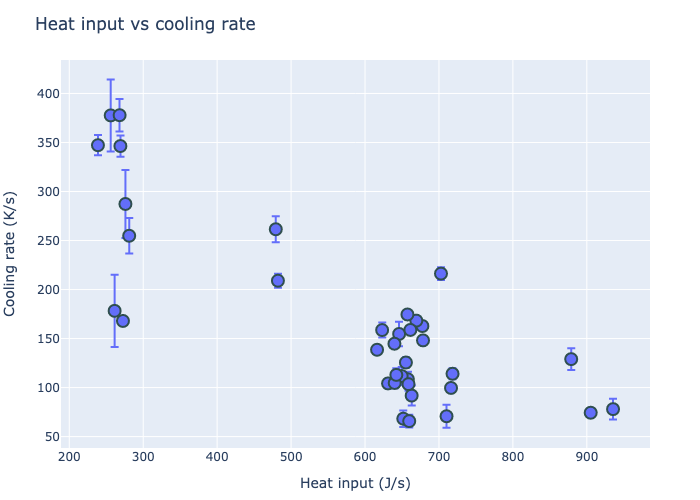
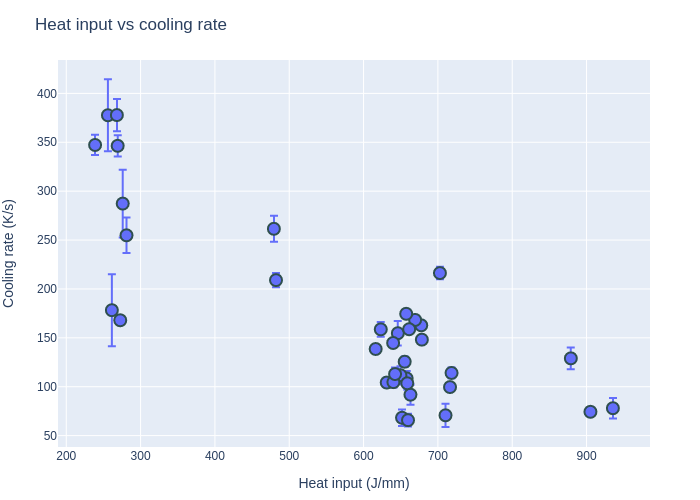
idk

diff --git a/myplt.html b/myplt.html
@@ -9,7 +9,7 @@ window.PlotlyConfig = {MathJaxConfig: 'local'};
 <script src="https://cdn.plot.ly/plotly-2.3.0.min.js"></script>
 
     <div
-        id=74a2cfe2-af52-403d-882d-81b6d308ff6d
+        id=4a8c4cb5-8f70-481b-8841-f9f87d6d571a
         class="plotly-graph-div"
         style="height:100%; width:100%;">
     </div>
@@ -17,11 +17,11 @@ window.PlotlyConfig = {MathJaxConfig: 'local'};
         
         window.PLOTLYENV = window.PLOTLYENV || {}
         
-        if (document.getElementById('74a2cfe2-af52-403d-882d-81b6d308ff6d')) {
+        if (document.getElementById('4a8c4cb5-8f70-481b-8841-f9f87d6d571a')) {
     Plotly.newPlot(
-        '74a2cfe2-af52-403d-882d-81b6d308ff6d',
+        '4a8c4cb5-8f70-481b-8841-f9f87d6d571a',
         [{"x":[272.61484425041914,623.1556639568136,616.297536437391,678.439610387996,677.6194703710901,657.9691329500673,655.3170406085087,669.3963411513746,663.0761235570861,651.7655238465242,649.5880621007259,646.1246999335307,659.7991578482029,631.1627156052439,661.3310025562482,658.7953615727218,639.771743773861,640.1630349988593,642.3794207929258,657.3762348204903,238.79244265446616,256.0373998341273,905.2333767391783,878.869965178166,702.742773539284,718.3895984362925,710.256998648712,716.3241111795019,935.4576513856715,281.05511393556094,275.95346571463676,479.32388960198296,482.196727682091,268.0955288108251,269.1577118158783,261.3585721903865],"mode":"markers","xaxis":"x","y":[167.96182,158.67236,138.57892,148.13419,162.78822,108.48489,125.58166,168.30495,91.84478,68.26494,111.77816,154.71657,65.80781,104.24214,158.79971,103.512,144.7381,104.679016,112.94357,174.56943,347.24677,377.62674,74.34163,129.01865,216.24123,114.094635,70.754456,99.634544,78.02036,254.8511,287.29648,261.49722,209.01065,377.83066,346.37286,178.26389],"type":"scatter","error_y":{"type":"data","visible":true,"array":[4.27788,7.62142,2.5291739,2.1810868,4.5554113,7.6795936,5.407683,4.5835032,10.23771,8.470408,9.218521,12.49388,6.41894,4.854581,3.414797,6.6832156,3.7966435,5.474925,6.828172,4.4653797,10.368562,36.73312,4.5959063,11.121534,6.391874,5.5404587,11.838372,2.0293267,10.545884,18.180841,34.61003,13.238057,7.171863,16.51889,10.85743,36.86045]},"text":["Plate 70819 region 1","Plate110819 region 1","Plate110819 region 2","Plate120819 region 1","Plate120819 region 2","Plate130829 region 1","Plate130829 region 2","Plate140829 region 1","Plate140829 region 2","Plate150831 region 1","Plate150831 region 2","Plate160831 region 1","Plate17p1 region 1","Plate17p2 region 1","Plate180831 region 1","Plate180831 region 2","Plate19 region 1","Plate19Bead2 region 1","Plate200922 region 1","Plate200922 region 2","Plate20601 region 1","Plate20601 region 2","Plate210922 region 1","Plate210922 region 2","Plate22Oct21 region 1","Plate23Oct25 region 1","Plate23Oct25 region 2","Plate24 region 1","Plate25 region 1","Plate30601 region 1","Plate30601 region 2","Plate40601 region 1","Plate40601 region 2","Plate50601 region 1","Plate50601 region 2","Plate6SecondBead region 1"],"yaxis":"y","marker":{"line":{"color":"DarkSlateGrey","width":2},"size":12}}],
-        {"xaxis":{"title":{"text":"Heat input (J/s)"}},"template":{"layout":{"coloraxis":{"colorbar":{"ticks":"","outlinewidth":0}},"xaxis":{"gridcolor":"white","zerolinewidth":2,"title":{"standoff":15},"ticks":"","zerolinecolor":"white","automargin":true,"linecolor":"white"},"hovermode":"closest","paper_bgcolor":"white","geo":{"showlakes":true,"showland":true,"landcolor":"#E5ECF6","bgcolor":"white","subunitcolor":"white","lakecolor":"white"},"colorscale":{"sequential":[[0.0,"#0d0887"],[0.1111111111111111,"#46039f"],[0.2222222222222222,"#7201a8"],[0.3333333333333333,"#9c179e"],[0.4444444444444444,"#bd3786"],[0.5555555555555556,"#d8576b"],[0.6666666666666666,"#ed7953"],[0.7777777777777778,"#fb9f3a"],[0.8888888888888888,"#fdca26"],[1.0,"#f0f921"]],"diverging":[[0,"#8e0152"],[0.1,"#c51b7d"],[0.2,"#de77ae"],[0.3,"#f1b6da"],[0.4,"#fde0ef"],[0.5,"#f7f7f7"],[0.6,"#e6f5d0"],[0.7,"#b8e186"],[0.8,"#7fbc41"],[0.9,"#4d9221"],[1,"#276419"]],"sequentialminus":[[0.0,"#0d0887"],[0.1111111111111111,"#46039f"],[0.2222222222222222,"#7201a8"],[0.3333333333333333,"#9c179e"],[0.4444444444444444,"#bd3786"],[0.5555555555555556,"#d8576b"],[0.6666666666666666,"#ed7953"],[0.7777777777777778,"#fb9f3a"],[0.8888888888888888,"#fdca26"],[1.0,"#f0f921"]]},"yaxis":{"gridcolor":"white","zerolinewidth":2,"title":{"standoff":15},"ticks":"","zerolinecolor":"white","automargin":true,"linecolor":"white"},"shapedefaults":{"line":{"color":"#2a3f5f"}},"hoverlabel":{"align":"left"},"mapbox":{"style":"light"},"polar":{"angularaxis":{"gridcolor":"white","ticks":"","linecolor":"white"},"bgcolor":"#E5ECF6","radialaxis":{"gridcolor":"white","ticks":"","linecolor":"white"}},"autotypenumbers":"strict","font":{"color":"#2a3f5f"},"ternary":{"baxis":{"gridcolor":"white","ticks":"","linecolor":"white"},"bgcolor":"#E5ECF6","caxis":{"gridcolor":"white","ticks":"","linecolor":"white"},"aaxis":{"gridcolor":"white","ticks":"","linecolor":"white"}},"annotationdefaults":{"arrowhead":0,"arrowwidth":1,"arrowcolor":"#2a3f5f"},"plot_bgcolor":"#E5ECF6","title":{"x":0.05},"scene":{"xaxis":{"gridcolor":"white","gridwidth":2,"backgroundcolor":"#E5ECF6","ticks":"","showbackground":true,"zerolinecolor":"white","linecolor":"white"},"zaxis":{"gridcolor":"white","gridwidth":2,"backgroundcolor":"#E5ECF6","ticks":"","showbackground":true,"zerolinecolor":"white","linecolor":"white"},"yaxis":{"gridcolor":"white","gridwidth":2,"backgroundcolor":"#E5ECF6","ticks":"","showbackground":true,"zerolinecolor":"white","linecolor":"white"}},"colorway":["#636efa","#EF553B","#00cc96","#ab63fa","#FFA15A","#19d3f3","#FF6692","#B6E880","#FF97FF","#FECB52"]},"data":{"barpolar":[{"type":"barpolar","marker":{"line":{"color":"#E5ECF6","width":0.5}}}],"carpet":[{"aaxis":{"gridcolor":"white","endlinecolor":"#2a3f5f","minorgridcolor":"white","startlinecolor":"#2a3f5f","linecolor":"white"},"type":"carpet","baxis":{"gridcolor":"white","endlinecolor":"#2a3f5f","minorgridcolor":"white","startlinecolor":"#2a3f5f","linecolor":"white"}}],"scatterpolar":[{"type":"scatterpolar","marker":{"colorbar":{"ticks":"","outlinewidth":0}}}],"parcoords":[{"line":{"colorbar":{"ticks":"","outlinewidth":0}},"type":"parcoords"}],"scatter":[{"type":"scatter","marker":{"colorbar":{"ticks":"","outlinewidth":0}}}],"histogram2dcontour":[{"colorbar":{"ticks":"","outlinewidth":0},"type":"histogram2dcontour","colorscale":[[0.0,"#0d0887"],[0.1111111111111111,"#46039f"],[0.2222222222222222,"#7201a8"],[0.3333333333333333,"#9c179e"],[0.4444444444444444,"#bd3786"],[0.5555555555555556,"#d8576b"],[0.6666666666666666,"#ed7953"],[0.7777777777777778,"#fb9f3a"],[0.8888888888888888,"#fdca26"],[1.0,"#f0f921"]]}],"contour":[{"colorbar":{"ticks":"","outlinewidth":0},"type":"contour","colorscale":[[0.0,"#0d0887"],[0.1111111111111111,"#46039f"],[0.2222222222222222,"#7201a8"],[0.3333333333333333,"#9c179e"],[0.4444444444444444,"#bd3786"],[0.5555555555555556,"#d8576b"],[0.6666666666666666,"#ed7953"],[0.7777777777777778,"#fb9f3a"],[0.8888888888888888,"#fdca26"],[1.0,"#f0f921"]]}],"scattercarpet":[{"type":"scattercarpet","marker":{"colorbar":{"ticks":"","outlinewidth":0}}}],"mesh3d":[{"colorbar":{"ticks":"","outlinewidth":0},"type":"mesh3d"}],"surface":[{"colorbar":{"ticks":"","outlinewidth":0},"type":"surface","colorscale":[[0.0,"#0d0887"],[0.1111111111111111,"#46039f"],[0.2222222222222222,"#7201a8"],[0.3333333333333333,"#9c179e"],[0.4444444444444444,"#bd3786"],[0.5555555555555556,"#d8576b"],[0.6666666666666666,"#ed7953"],[0.7777777777777778,"#fb9f3a"],[0.8888888888888888,"#fdca26"],[1.0,"#f0f921"]]}],"scattermapbox":[{"type":"scattermapbox","marker":{"colorbar":{"ticks":"","outlinewidth":0}}}],"scattergeo":[{"type":"scattergeo","marker":{"colorbar":{"ticks":"","outlinewidth":0}}}],"histogram":[{"type":"histogram","marker":{"colorbar":{"ticks":"","outlinewidth":0}}}],"pie":[{"type":"pie","automargin":true}],"choropleth":[{"colorbar":{"ticks":"","outlinewidth":0},"type":"choropleth"}],"heatmapgl":[{"colorbar":{"ticks":"","outlinewidth":0},"type":"heatmapgl","colorscale":[[0.0,"#0d0887"],[0.1111111111111111,"#46039f"],[0.2222222222222222,"#7201a8"],[0.3333333333333333,"#9c179e"],[0.4444444444444444,"#bd3786"],[0.5555555555555556,"#d8576b"],[0.6666666666666666,"#ed7953"],[0.7777777777777778,"#fb9f3a"],[0.8888888888888888,"#fdca26"],[1.0,"#f0f921"]]}],"bar":[{"type":"bar","error_y":{"color":"#2a3f5f"},"error_x":{"color":"#2a3f5f"},"marker":{"line":{"color":"#E5ECF6","width":0.5}}}],"heatmap":[{"colorbar":{"ticks":"","outlinewidth":0},"type":"heatmap","colorscale":[[0.0,"#0d0887"],[0.1111111111111111,"#46039f"],[0.2222222222222222,"#7201a8"],[0.3333333333333333,"#9c179e"],[0.4444444444444444,"#bd3786"],[0.5555555555555556,"#d8576b"],[0.6666666666666666,"#ed7953"],[0.7777777777777778,"#fb9f3a"],[0.8888888888888888,"#fdca26"],[1.0,"#f0f921"]]}],"contourcarpet":[{"colorbar":{"ticks":"","outlinewidth":0},"type":"contourcarpet"}],"table":[{"type":"table","header":{"line":{"color":"white"},"fill":{"color":"#C8D4E3"}},"cells":{"line":{"color":"white"},"fill":{"color":"#EBF0F8"}}}],"scatter3d":[{"line":{"colorbar":{"ticks":"","outlinewidth":0}},"type":"scatter3d","marker":{"colorbar":{"ticks":"","outlinewidth":0}}}],"scattergl":[{"type":"scattergl","marker":{"colorbar":{"ticks":"","outlinewidth":0}}}],"histogram2d":[{"colorbar":{"ticks":"","outlinewidth":0},"type":"histogram2d","colorscale":[[0.0,"#0d0887"],[0.1111111111111111,"#46039f"],[0.2222222222222222,"#7201a8"],[0.3333333333333333,"#9c179e"],[0.4444444444444444,"#bd3786"],[0.5555555555555556,"#d8576b"],[0.6666666666666666,"#ed7953"],[0.7777777777777778,"#fb9f3a"],[0.8888888888888888,"#fdca26"],[1.0,"#f0f921"]]}],"scatterternary":[{"type":"scatterternary","marker":{"colorbar":{"ticks":"","outlinewidth":0}}}],"scatterpolargl":[{"type":"scatterpolargl","marker":{"colorbar":{"ticks":"","outlinewidth":0}}}]}},"hovername":"name","margin":{"l":50,"b":50,"r":50,"t":60},"title":"Heat input vs cooling rate","yaxis":{"title":{"text":"Cooling rate (K/s)"}},"legend":{"tracegroupgap":0}},
+        {"xaxis":{"title":{"text":"Heat input (J/mm)"}},"template":{"layout":{"coloraxis":{"colorbar":{"ticks":"","outlinewidth":0}},"xaxis":{"gridcolor":"white","zerolinewidth":2,"title":{"standoff":15},"ticks":"","zerolinecolor":"white","automargin":true,"linecolor":"white"},"hovermode":"closest","paper_bgcolor":"white","geo":{"showlakes":true,"showland":true,"landcolor":"#E5ECF6","bgcolor":"white","subunitcolor":"white","lakecolor":"white"},"colorscale":{"sequential":[[0.0,"#0d0887"],[0.1111111111111111,"#46039f"],[0.2222222222222222,"#7201a8"],[0.3333333333333333,"#9c179e"],[0.4444444444444444,"#bd3786"],[0.5555555555555556,"#d8576b"],[0.6666666666666666,"#ed7953"],[0.7777777777777778,"#fb9f3a"],[0.8888888888888888,"#fdca26"],[1.0,"#f0f921"]],"diverging":[[0,"#8e0152"],[0.1,"#c51b7d"],[0.2,"#de77ae"],[0.3,"#f1b6da"],[0.4,"#fde0ef"],[0.5,"#f7f7f7"],[0.6,"#e6f5d0"],[0.7,"#b8e186"],[0.8,"#7fbc41"],[0.9,"#4d9221"],[1,"#276419"]],"sequentialminus":[[0.0,"#0d0887"],[0.1111111111111111,"#46039f"],[0.2222222222222222,"#7201a8"],[0.3333333333333333,"#9c179e"],[0.4444444444444444,"#bd3786"],[0.5555555555555556,"#d8576b"],[0.6666666666666666,"#ed7953"],[0.7777777777777778,"#fb9f3a"],[0.8888888888888888,"#fdca26"],[1.0,"#f0f921"]]},"yaxis":{"gridcolor":"white","zerolinewidth":2,"title":{"standoff":15},"ticks":"","zerolinecolor":"white","automargin":true,"linecolor":"white"},"shapedefaults":{"line":{"color":"#2a3f5f"}},"hoverlabel":{"align":"left"},"mapbox":{"style":"light"},"polar":{"angularaxis":{"gridcolor":"white","ticks":"","linecolor":"white"},"bgcolor":"#E5ECF6","radialaxis":{"gridcolor":"white","ticks":"","linecolor":"white"}},"autotypenumbers":"strict","font":{"color":"#2a3f5f"},"ternary":{"baxis":{"gridcolor":"white","ticks":"","linecolor":"white"},"bgcolor":"#E5ECF6","caxis":{"gridcolor":"white","ticks":"","linecolor":"white"},"aaxis":{"gridcolor":"white","ticks":"","linecolor":"white"}},"annotationdefaults":{"arrowhead":0,"arrowwidth":1,"arrowcolor":"#2a3f5f"},"plot_bgcolor":"#E5ECF6","title":{"x":0.05},"scene":{"xaxis":{"gridcolor":"white","gridwidth":2,"backgroundcolor":"#E5ECF6","ticks":"","showbackground":true,"zerolinecolor":"white","linecolor":"white"},"zaxis":{"gridcolor":"white","gridwidth":2,"backgroundcolor":"#E5ECF6","ticks":"","showbackground":true,"zerolinecolor":"white","linecolor":"white"},"yaxis":{"gridcolor":"white","gridwidth":2,"backgroundcolor":"#E5ECF6","ticks":"","showbackground":true,"zerolinecolor":"white","linecolor":"white"}},"colorway":["#636efa","#EF553B","#00cc96","#ab63fa","#FFA15A","#19d3f3","#FF6692","#B6E880","#FF97FF","#FECB52"]},"data":{"barpolar":[{"type":"barpolar","marker":{"line":{"color":"#E5ECF6","width":0.5}}}],"carpet":[{"aaxis":{"gridcolor":"white","endlinecolor":"#2a3f5f","minorgridcolor":"white","startlinecolor":"#2a3f5f","linecolor":"white"},"type":"carpet","baxis":{"gridcolor":"white","endlinecolor":"#2a3f5f","minorgridcolor":"white","startlinecolor":"#2a3f5f","linecolor":"white"}}],"scatterpolar":[{"type":"scatterpolar","marker":{"colorbar":{"ticks":"","outlinewidth":0}}}],"parcoords":[{"line":{"colorbar":{"ticks":"","outlinewidth":0}},"type":"parcoords"}],"scatter":[{"type":"scatter","marker":{"colorbar":{"ticks":"","outlinewidth":0}}}],"histogram2dcontour":[{"colorbar":{"ticks":"","outlinewidth":0},"type":"histogram2dcontour","colorscale":[[0.0,"#0d0887"],[0.1111111111111111,"#46039f"],[0.2222222222222222,"#7201a8"],[0.3333333333333333,"#9c179e"],[0.4444444444444444,"#bd3786"],[0.5555555555555556,"#d8576b"],[0.6666666666666666,"#ed7953"],[0.7777777777777778,"#fb9f3a"],[0.8888888888888888,"#fdca26"],[1.0,"#f0f921"]]}],"contour":[{"colorbar":{"ticks":"","outlinewidth":0},"type":"contour","colorscale":[[0.0,"#0d0887"],[0.1111111111111111,"#46039f"],[0.2222222222222222,"#7201a8"],[0.3333333333333333,"#9c179e"],[0.4444444444444444,"#bd3786"],[0.5555555555555556,"#d8576b"],[0.6666666666666666,"#ed7953"],[0.7777777777777778,"#fb9f3a"],[0.8888888888888888,"#fdca26"],[1.0,"#f0f921"]]}],"scattercarpet":[{"type":"scattercarpet","marker":{"colorbar":{"ticks":"","outlinewidth":0}}}],"mesh3d":[{"colorbar":{"ticks":"","outlinewidth":0},"type":"mesh3d"}],"surface":[{"colorbar":{"ticks":"","outlinewidth":0},"type":"surface","colorscale":[[0.0,"#0d0887"],[0.1111111111111111,"#46039f"],[0.2222222222222222,"#7201a8"],[0.3333333333333333,"#9c179e"],[0.4444444444444444,"#bd3786"],[0.5555555555555556,"#d8576b"],[0.6666666666666666,"#ed7953"],[0.7777777777777778,"#fb9f3a"],[0.8888888888888888,"#fdca26"],[1.0,"#f0f921"]]}],"scattermapbox":[{"type":"scattermapbox","marker":{"colorbar":{"ticks":"","outlinewidth":0}}}],"scattergeo":[{"type":"scattergeo","marker":{"colorbar":{"ticks":"","outlinewidth":0}}}],"histogram":[{"type":"histogram","marker":{"colorbar":{"ticks":"","outlinewidth":0}}}],"pie":[{"type":"pie","automargin":true}],"choropleth":[{"colorbar":{"ticks":"","outlinewidth":0},"type":"choropleth"}],"heatmapgl":[{"colorbar":{"ticks":"","outlinewidth":0},"type":"heatmapgl","colorscale":[[0.0,"#0d0887"],[0.1111111111111111,"#46039f"],[0.2222222222222222,"#7201a8"],[0.3333333333333333,"#9c179e"],[0.4444444444444444,"#bd3786"],[0.5555555555555556,"#d8576b"],[0.6666666666666666,"#ed7953"],[0.7777777777777778,"#fb9f3a"],[0.8888888888888888,"#fdca26"],[1.0,"#f0f921"]]}],"bar":[{"type":"bar","error_y":{"color":"#2a3f5f"},"error_x":{"color":"#2a3f5f"},"marker":{"line":{"color":"#E5ECF6","width":0.5}}}],"heatmap":[{"colorbar":{"ticks":"","outlinewidth":0},"type":"heatmap","colorscale":[[0.0,"#0d0887"],[0.1111111111111111,"#46039f"],[0.2222222222222222,"#7201a8"],[0.3333333333333333,"#9c179e"],[0.4444444444444444,"#bd3786"],[0.5555555555555556,"#d8576b"],[0.6666666666666666,"#ed7953"],[0.7777777777777778,"#fb9f3a"],[0.8888888888888888,"#fdca26"],[1.0,"#f0f921"]]}],"contourcarpet":[{"colorbar":{"ticks":"","outlinewidth":0},"type":"contourcarpet"}],"table":[{"type":"table","header":{"line":{"color":"white"},"fill":{"color":"#C8D4E3"}},"cells":{"line":{"color":"white"},"fill":{"color":"#EBF0F8"}}}],"scatter3d":[{"line":{"colorbar":{"ticks":"","outlinewidth":0}},"type":"scatter3d","marker":{"colorbar":{"ticks":"","outlinewidth":0}}}],"scattergl":[{"type":"scattergl","marker":{"colorbar":{"ticks":"","outlinewidth":0}}}],"histogram2d":[{"colorbar":{"ticks":"","outlinewidth":0},"type":"histogram2d","colorscale":[[0.0,"#0d0887"],[0.1111111111111111,"#46039f"],[0.2222222222222222,"#7201a8"],[0.3333333333333333,"#9c179e"],[0.4444444444444444,"#bd3786"],[0.5555555555555556,"#d8576b"],[0.6666666666666666,"#ed7953"],[0.7777777777777778,"#fb9f3a"],[0.8888888888888888,"#fdca26"],[1.0,"#f0f921"]]}],"scatterternary":[{"type":"scatterternary","marker":{"colorbar":{"ticks":"","outlinewidth":0}}}],"scatterpolargl":[{"type":"scatterpolargl","marker":{"colorbar":{"ticks":"","outlinewidth":0}}}]}},"legend":{"tracegroupgap":0},"margin":{"l":50,"b":50,"r":50,"t":60},"title":"Heat input vs cooling rate","yaxis":{"title":{"text":"Cooling rate (K/s)"}}},
         {"editable":false,"responsive":true,"staticPlot":false,"scrollZoom":true},
     )
 }
